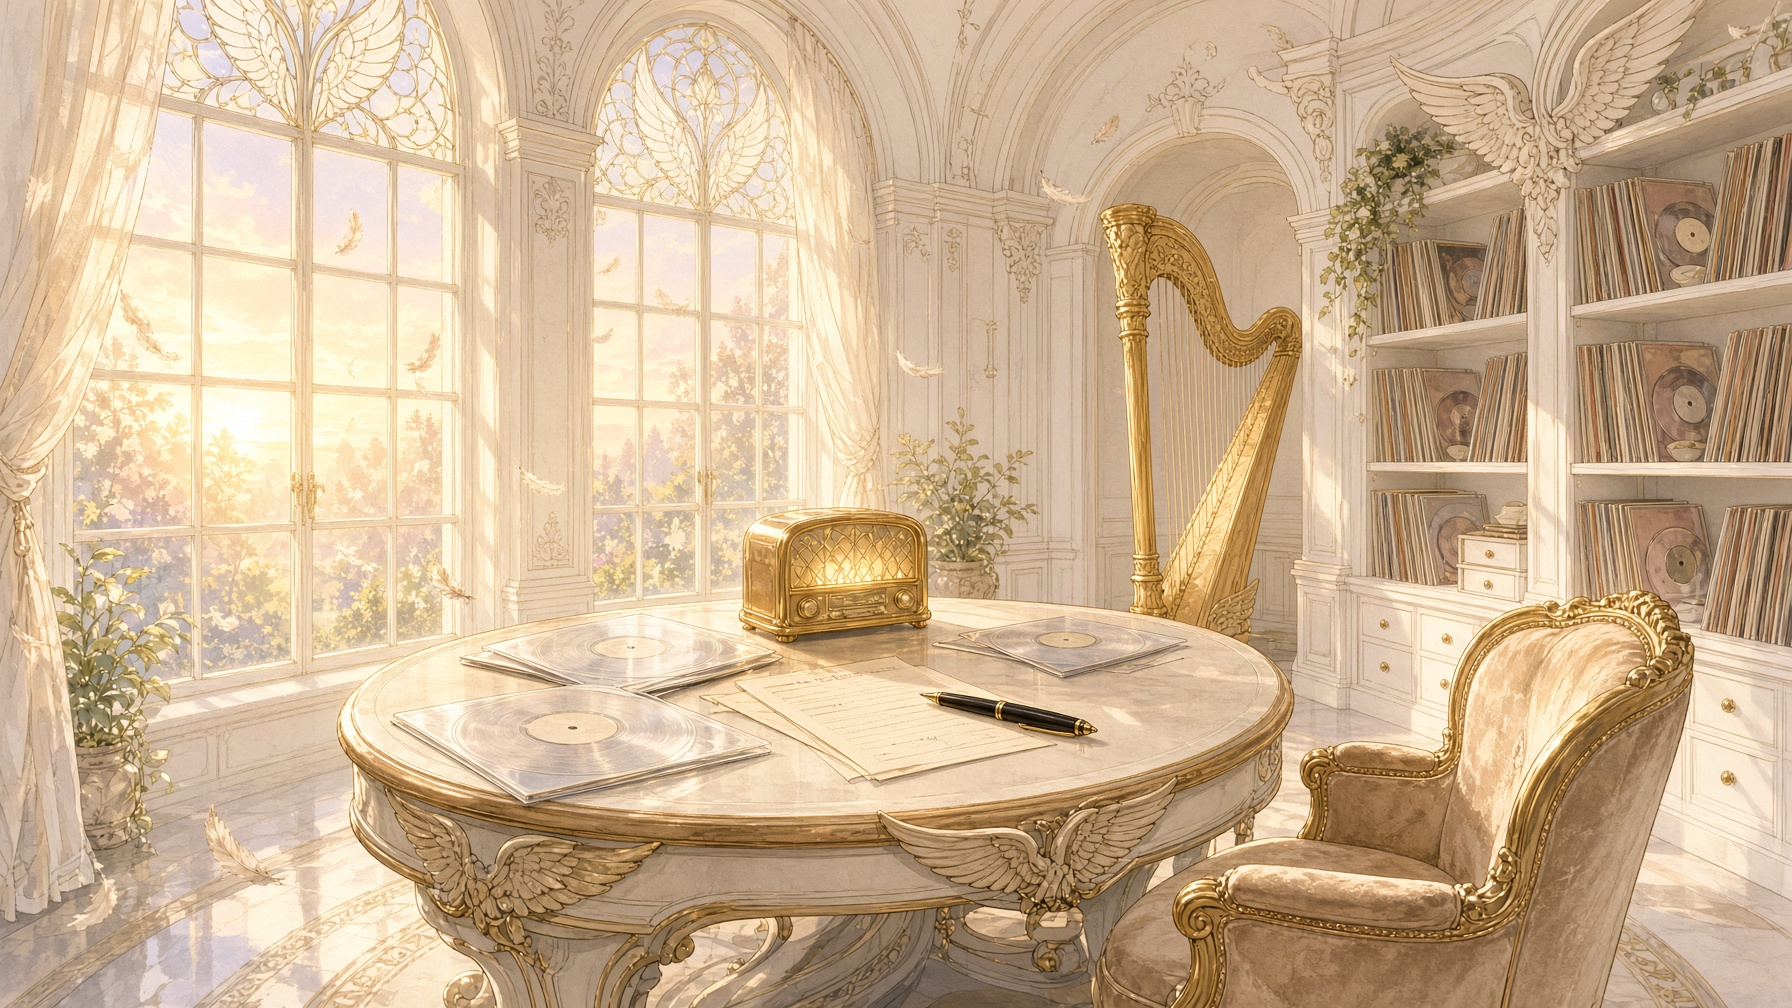
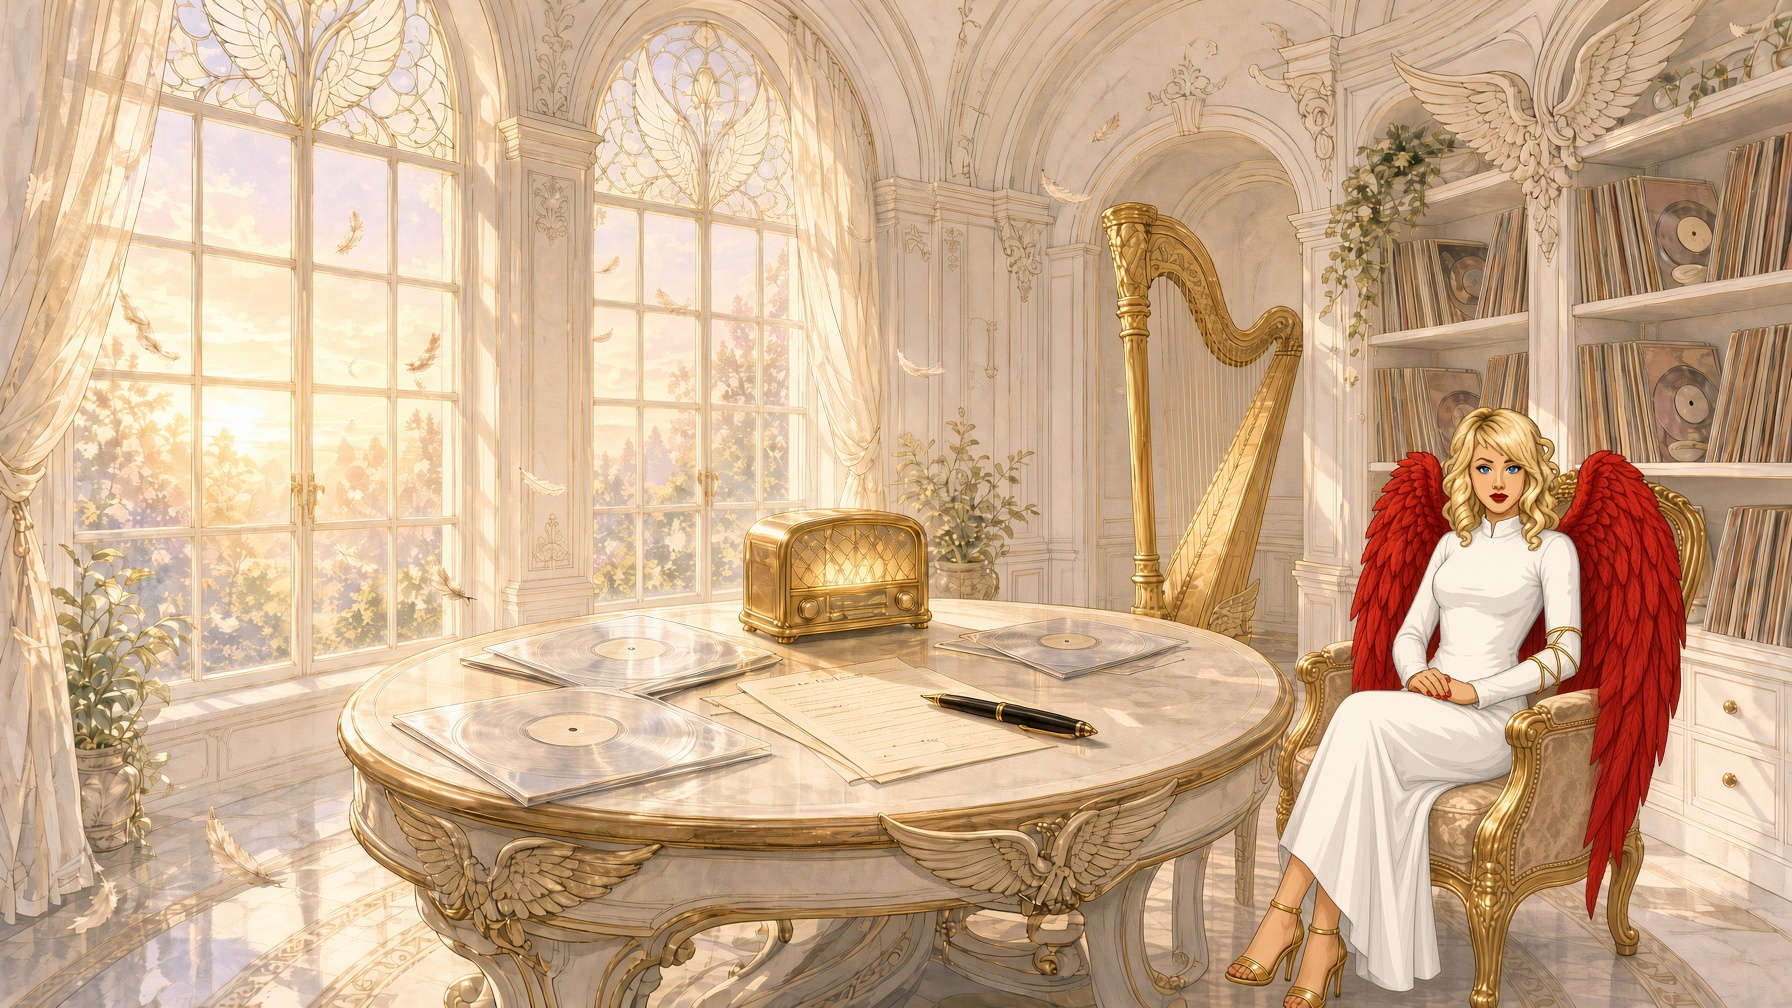
Pan the whole meadow, put DJ Angel A on her house, and seat her in the study.

diff --git a/src/components/yard.tsx b/src/components/yard.tsx
@@ -744,6 +744,7 @@ function World({
 
   function grab(event: ReactPointerEvent<HTMLDivElement>) {
     if (event.pointerType === "mouse" && event.button !== 0) return;
+    event.preventDefault();
     const node = event.currentTarget;
     const id = event.pointerId;
     const startX = event.clientX;
@@ -809,9 +810,9 @@ function World({
       >
         <div
           className="absolute w-[220%]"
-          style={{ aspectRatio: "16 / 9", transform: `translate(${pan.x}px, ${pan.y}px) scale(${pan.z})`, transformOrigin: "0 0" }}
+          style={{ transform: `translate(${pan.x}px, ${pan.y}px) scale(${pan.z})`, transformOrigin: "0 0" }}
         >
-          <img src="/earth.jpg" alt="" className="absolute inset-0 h-full w-full" />
+          <img src="/earth.jpg" alt="" draggable={false} className="pointer-events-none block h-auto w-full select-none" />
           <button
             type="button"
             className="absolute max-w-[16rem] rounded-xl bg-[#1a120c]/90 px-3 py-1.5 text-left text-[#f4e4c4] shadow"
@@ -860,10 +861,10 @@ function World({
           <button
             type="button"
             className="absolute rounded-xl bg-white/90 px-3 py-1.5 text-left text-[#1a120c] shadow"
-            style={{ left: "54%", top: "26%" }}
+            style={{ left: "46%", top: "52%" }}
             onClick={onAngel}
           >
-            <span className="block text-base font-medium">дом Анджела</span>
+            <span className="block text-base font-medium">DJ Angel A</span>
             <span className="text-sm">кабинет</span>
           </button>
           <button

diff --git a/src/components/helper-dock.tsx b/src/components/helper-dock.tsx
@@ -126,7 +126,7 @@ export function HelperDock() {
     <>
       <button
         type="button"
-        className="fixed right-3 bottom-[max(1rem,env(safe-area-inset-bottom))] z-30 rounded-full bg-[#f4e4c4] px-3 py-2 text-sm text-[#1a120c] shadow"
+        className="fixed top-[max(4.2rem,calc(env(safe-area-inset-top)+3.6rem))] right-3 z-30 rounded-full bg-[#f4e4c4] px-3 py-2 text-sm text-[#1a120c] shadow"
         onClick={() => setPick(true)}
       >
         Позвать
